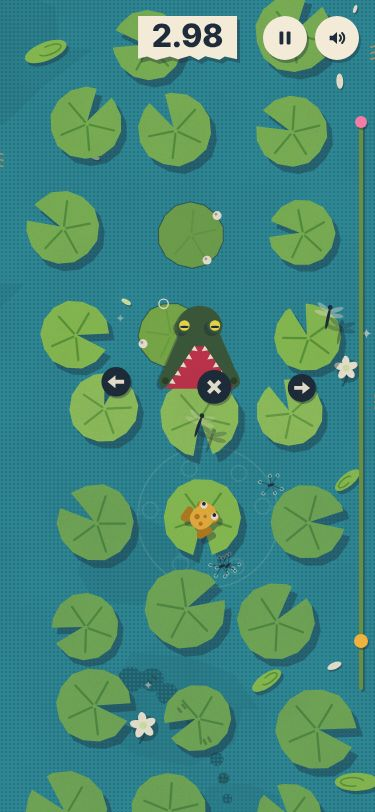
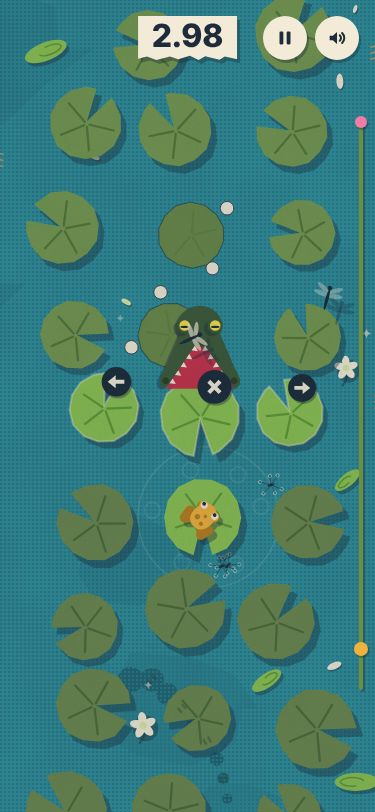
M-0002: WO-003 fix r1 (polish findings)
Claude-Session: https://claude.ai/code/session_01WqXox3iJk842Krqfm64NXK

diff --git a/projects/frog-chase/src/render/renderer.ts b/projects/frog-chase/src/render/renderer.ts
@@ -86,6 +86,11 @@ declare global {
 /** Hinge → snout tip of the head, wu (draw.ts SNOUT plus the rounded tip). */
 const SNOUT_TIP = 10.5;
 const lerpAngle = (a: number, b: number, t: number): number => a + Math.atan2(Math.sin(b - a), Math.cos(b - a)) * t;
+/** Is a pad one of the current choices? (Module-level: no per-frame closure.) */
+function isChoiceOf(sim: SimState, id: number): boolean {
+  for (let i = 0; i < sim.choices.length; i++) if (sim.choices[i]!.padId === id) return true;
+  return false;
+}
 const DASH = [3, 3];
 const NO_DASH: number[] = [];
 
@@ -246,17 +251,28 @@ export function createRenderer(canvas: HTMLCanvasElement): Renderer {
       return true;
     },
     clear(p: Vec2): Vec2 {
+      // Neighbouring clearance zones overlap, so push repeatedly; if a point is still trapped between two
+      // choices, lift it north of their layer.
       const sim = simRef!;
+      for (let pass = 0; pass < 4; pass++) {
+        let moved = false;
+        for (let i = 0; i < sim.choices.length; i++) {
+          const pad = sim.river.pads[sim.choices[i]!.padId]!;
+          if (pad.kind === 'bank') continue;
+          const cx = pad.x + padSwayX(pad, at), cy = pad.y;
+          const dx = p.x - cx, dy = p.y - cy;
+          const d = Math.hypot(dx, dy), min = pad.r + 6;
+          if (d >= min) continue;
+          const ux = d > 1e-6 ? dx / d : 0, uy = d > 1e-6 ? dy / d : 1;
+          p.x = cx + ux * min;
+          p.y = cy + uy * min;
+          moved = true;
+        }
+        if (!moved) return p;
+      }
       for (let i = 0; i < sim.choices.length; i++) {
         const pad = sim.river.pads[sim.choices[i]!.padId]!;
-        if (pad.kind === 'bank') continue;
-        const cx = pad.x + padSwayX(pad, at), cy = pad.y;
-        const dx = p.x - cx, dy = p.y - cy;
-        const d = Math.hypot(dx, dy), min = pad.r + 6;
-        if (d >= min) continue;
-        const ux = d > 1e-6 ? dx / d : 0, uy = d > 1e-6 ? dy / d : 1;
-        p.x = cx + ux * min;
-        p.y = cy + uy * min;
+        if (pad.kind !== 'bank') p.y = Math.max(p.y, pad.y + pad.r + 6.5);
       }
       return p;
     },
@@ -437,6 +453,24 @@ export function createRenderer(canvas: HTMLCanvasElement): Renderer {
     if (e.t !== 'nearMiss') {
       if (imp.shakePx > 0) shake.kick(imp.shakePx, imp.shakeMs);
     }
+  }
+
+  /** A landed droplet: a ripple on the water, and the polish-10 audit (hoisted: no per-frame closure). */
+  function onDropletLand(x: number, y: number, size: number): void {
+    ripples.spawn(x, y, size * 0.6, size * 2.6, 0.32, 0.45);
+    if (landPad < 0 || !simRef) return;
+    const lp = simRef.river.pads[landPad]!;
+    probe.droplets++;
+    if (Math.hypot(x - lp.x, y - lp.y) < lp.r * 1.08) probe.dropletsOnPad++;
+  }
+
+  /** Route point i of the win trace: the swayed centre of the landed pad (bank points as stored). */
+  function routePoint(sim: SimState, i: number, out: Vec2): Vec2 {
+    const id = route ? route[i]! : -1;
+    if (id >= 0 && sim.river.pads[id]!.kind !== 'bank') return padPos(id, out);
+    out.x = sim.trail[i]!.x;
+    out.y = sim.trail[i]!.y;
+    return out;
   }
 
   function padAt(sim: SimState, p: Vec2): number {
@@ -733,10 +767,6 @@ export function createRenderer(canvas: HTMLCanvasElement): Renderer {
       // ── Pads (shadows pass, then surfaces).
       const frogLayer = sim.frog.layer;
       const k0 = Math.max(1, Math.floor(bounds.yB / P) - 1), k1 = Math.min(t.layers, Math.ceil(bounds.yT / P) + 1);
-      const isChoice = (id: number) => {
-        for (let i = 0; i < sim.choices.length; i++) if (sim.choices[i]!.padId === id) return true;
-        return false;
-      };
       for (let pass = 0; pass < 2; pass++) {
         for (let k = k0; k <= k1; k++) {
           const layer = sim.river.layers[k]!;
@@ -748,7 +778,7 @@ export function createRenderer(canvas: HTMLCanvasElement): Renderer {
               drawPadShadow(ctx, p, shapeOf(p), look);
               continue;
             }
-            const lit = isChoice(p.id) || rt_.state === 'reachable' || rt_.state === 'flanked';
+            const lit = isChoiceOf(sim, p.id) || rt_.state === 'reachable' || rt_.state === 'flanked';
             const target = lit || p.id === sim.frog.padId || p.id === sim.frog.targetId ? 0 : k > frogLayer ? DIM_AHEAD : DIM_BEHIND;
             const was = dimOf[p.id]!;
             const step = (dt / 120) * DIM_AHEAD;
@@ -772,7 +802,7 @@ export function createRenderer(canvas: HTMLCanvasElement): Renderer {
       }
       // The north bank answers as one big target when it is the next hop.
       const north = sim.river.layers[t.layers + 1]?.[0];
-      if (north && isChoice(north.id)) {
+      if (north && isChoiceOf(sim, north.id)) {
         dX[north.id] = sx(view, 50);
         dY[north.id] = sy(view, north.y);
         dR[north.id] = 26 * view.k;
@@ -850,7 +880,7 @@ export function createRenderer(canvas: HTMLCanvasElement): Renderer {
       let chipCount = 0;
       for (let i = 0; i < 3; i++) {
         const id = lastChips[i]!;
-        if (id >= 0 && !isChoice(id)) chipBorn[id] = -1;
+        if (id >= 0 && !isChoiceOf(sim, id)) chipBorn[id] = -1;
       }
       for (let i = 0; i < 3; i++) lastChips[i] = sim.choices[i]?.padId ?? -1;
       let stagger = 0;
@@ -891,7 +921,7 @@ export function createRenderer(canvas: HTMLCanvasElement): Renderer {
         }
       }
       // A flanked pad keeps its ✕ while the frog is in the air (choices are empty then): the jaws are never the only warning.
-      if (flankPad >= 0 && sim.padStates[flankPad]!.state === 'flanked' && !isChoice(flankPad)) {
+      if (flankPad >= 0 && sim.padStates[flankPad]!.state === 'flanked' && !isChoiceOf(sim, flankPad)) {
         const p = sim.river.pads[flankPad]!;
         padPos(flankPad, tmp);
         drawChip(ctx, tmp.x + 0.36 * p.r, tmp.y + 0.74 * p.r, 0.42 * p.r, 'X', false, 1, px, chipPx);
@@ -922,14 +952,7 @@ export function createRenderer(canvas: HTMLCanvasElement): Renderer {
       }
 
       // ── Particles.
-      particles.step(dts, (x, y, size) => {
-        ripples.spawn(x, y, size * 0.6, size * 2.6, 0.32, 0.45);
-        if (landPad >= 0) {
-          const lp = sim.river.pads[landPad]!;
-          probe.droplets++;
-          if (Math.hypot(x - lp.x, y - lp.y) < lp.r * 1.08) probe.dropletsOnPad++;
-        }
-      });
+      particles.step(dts, onDropletLand);
       for (let i = 0; i < particles.cap; i++) {
         if (particles.life[i]! <= 0) continue;
         const kind = particles.kind[i]!;
@@ -986,22 +1009,15 @@ export function createRenderer(canvas: HTMLCanvasElement): Renderer {
           ctx.setLineDash(DASH);
           ctx.beginPath();
           const n = sim.trail.length;
-          const at_ = (i: number, out: Vec2) => {
-            const id = route![i]!;
-            if (id >= 0 && sim.river.pads[id]!.kind !== 'bank') return padPos(id, out);
-            out.x = sim.trail[i]!.x;
-            out.y = sim.trail[i]!.y;
-            return out;
-          };
-          at_(n - 1, tmp);
+          routePoint(sim, n - 1, tmp);
           ctx.moveTo(tmp.x, tmp.y);
           for (let i = n - 2; i >= 0; i--) {
-            at_(i, tmp);
+            routePoint(sim, i, tmp);
             if (arc[i]! >= cutAt) {
               ctx.lineTo(tmp.x, tmp.y);
               continue;
             }
-            at_(i + 1, tmp2);
+            routePoint(sim, i + 1, tmp2);
             const seg = arc[i + 1]! - arc[i]!;
             const f = seg > 0 ? (arc[i + 1]! - cutAt) / seg : 1;
             ctx.lineTo(lerp(tmp2.x, tmp.x, f), lerp(tmp2.y, tmp.y, f));
@@ -1012,7 +1028,7 @@ export function createRenderer(canvas: HTMLCanvasElement): Renderer {
           ctx.beginPath();
           for (let i = 0; i < n; i++) {
             if (arc[i]! < cutAt) continue;
-            at_(i, tmp);
+            routePoint(sim, i, tmp);
             ctx.moveTo(tmp.x + 1.1, tmp.y);
             ctx.arc(tmp.x, tmp.y, 1.1, 0, TAU);
           }
@@ -1032,7 +1048,7 @@ export function createRenderer(canvas: HTMLCanvasElement): Renderer {
         choiceIds[nc] = cp.id;
         choiceR[nc++] = cp.r;
       }
-      if (nc && life.minChoiceGap(lifeWorld, choiceIds, choiceR, nc) < 2) { probe.flyOverChoice++; (probe as any).__dbg = JSON.stringify({ f: (life as any).flies.map((q: any) => [q.mode, q.x.toFixed(1), q.y.toFixed(1), q.pad]), c: choiceIds.slice(0, nc), hs: resized }); }
+      if (nc && life.minChoiceGap(lifeWorld, choiceIds, choiceR, nc) < 2) probe.flyOverChoice++;
 
       // ── Print grain and the danger vignette (screen space).
       setScreen();

diff --git a/bureau/missions/M-0002-frog-chase/log.md b/bureau/missions/M-0002-frog-chase/log.md
@@ -47,3 +47,15 @@ Chronological record kept by `bureau`. Append with `python3 bureau/bin/bureau lo
 - `2026-11-21T03:53:30Z` **engineer** — F-005 resolved: shell-pause.e2e.mjs now does check(count === 1) on '#ui [data-test="pause"]', clicks it, asserts paused and frozen, then asserts the next ↑ adds exactly 1 hop event (focus released). The else/note branch is gone. Mutation: a scratch copy with the selector renamed gives 'FAIL pause button present (... found 0)', exit 1. The real file passes 3/3 runs.
 - `2026-11-21T03:53:30Z` **engineer** — F-006 resolved: WO-004 part: shell.ts reuses one mutable ViewState refilled per frame (render/ui only copy fields out; grep shows no retained view). input.ts mutates one PadMemory per gamepad slot and uses shared frozen-shape HOP intents, so nothing is allocated per poll. Unit test 'frame path (F-006)' asserts the renderer gets the identical ViewState object each frame. The two renderer closures (renderer.ts:690, :862) are WO-003's paths and are left to them. PORT=4393 npm run verify: all shell-*, boot and sim e2e PASS.
 - `2026-11-21T03:54:07Z` **ceo** — WO-004 fix r1 done (F-003, F-005, F-006 shell part). shell-audio 83->19 s, shell-save 36->8 s. Lesson for retro: parallel verifies need distinct PORTs.
+- `2026-11-21T04:07:14Z` **engineer** — F-007 resolved: Vellum sheet removed; wordmark straight on the pond (ink, 3 px paper offset, 38% ink shadow), pads never tinted — bureau/missions/M-0002-frog-chase/evidence/WO-003/look-01-title-desktop.jpg, bureau/missions/M-0002-frog-chase/evidence/WO-003/r1/look-01-title-mobile.jpg; look-shots '1 title: wordmark on the pond (no sheet tinting pads), clear of the lit pads'
+- `2026-11-21T04:07:14Z` **engineer** — F-008 resolved: Non-reachable pads dim to ~80% value / −20% saturation (behind: 72%/−30%), eased over 120 ms; reachable keep full value + 2 px paper rim at 40% (color.ts dimRamp, renderer dimOf) — bureau/missions/M-0002-frog-chase/evidence/WO-003/r1/look-04-layer6-mobile.jpg, grayscale still separates: look-grayscale shadow 29–31 vs −1, crescent 0.26 vs 0 (bureau/missions/M-0002-frog-chase/evidence/WO-003/r1/look-04-layer6-gray-mobile.jpg)
+- `2026-11-21T04:07:14Z` **engineer** — F-009 resolved: Rest pads must be idle lilies r+9 wu clear of every choice; flies take off when a pad turns reachable; wander and approach flights pushed r+6 wu clear (iterated for overlapping zones) — look-feel 'F-009: no frame with a dragonfly over a reachable pad (0)' over full crossings at 414 and 1920 wide
+- `2026-11-21T04:07:14Z` **engineer** — F-010 resolved: Droplets spawn at 1.0–1.1r, land at 1.25–1.6r, fade over the last 60 ms — look-feel 'polish 10 / F-010: 240 landing droplets, 0 on a pad'; bureau/missions/M-0002-frog-chase/evidence/WO-003/r1/m-droplets-110ms.jpg
+- `2026-11-21T04:07:14Z` **engineer** — F-011 resolved: Vignette 0.45τ (floor 0.10 past τ 0.3), inner stop 0.3, plus a 6 px solid jaw band on the lub (≤2.3 Hz) — danger.ts, cues.test.ts; look-shots '6 τ 0.61 … vignette' at 375; bureau/missions/M-0002-frog-chase/evidence/WO-003/r1/look-06-tau-mobile.jpg
+- `2026-11-21T04:07:14Z` **engineer** — F-012 resolved: ≥1024 px: win zoom fits the whole route under the HUD (camera.test asserts top at 112 px, start at h−24), card docked on the right bank, no veil on wins, bloom petals 2.5 wu / 0.9 s at constant screen size — bureau/missions/M-0002-frog-chase/evidence/WO-003/look-11-win-desktop.jpg
+- `2026-11-21T04:07:14Z` **engineer** — F-013 resolved: Clack aims the snout TIP 0.3P behind the frog's shadow centre along the hop axis, head turned along the hop — look-shots '8 near-miss: snout tip 11.7 wu behind the frog's shadow (≥ 0.3P = 7.8)'; bureau/missions/M-0002-frog-chase/evidence/WO-003/r1/m-nearmiss.jpg
+- `2026-11-21T04:07:14Z` **engineer** — F-014 resolved: Bubbles r 1.8 wu with a 1 px ink rim, rising 4 wu; soggy diagram gains a third callout 'no notch' — bureau/missions/M-0002-frog-chase/evidence/WO-003/r1/m-soggy-card.jpg, bureau/missions/M-0002-frog-chase/evidence/WO-003/r1/look-04-layer6-mobile.jpg; format.test callouts
+- `2026-11-21T04:07:14Z` **engineer** — F-015 resolved: Hover (pointer: fine): lift 1 px, shadow 3 px over 90 ms on round and tab buttons; .ly-down press class on pointerdown so short presses show — bureau/missions/M-0002-frog-chase/evidence/WO-003/r1/d-hud-hover.jpg
+- `2026-11-21T04:07:14Z` **engineer** — F-016 resolved: Curl hint now 'Curled edge. Rocks. Sneaky.' matching the callouts — format.test.ts 'One vocabulary on the curl card'
+- `2026-11-21T04:07:14Z` **engineer** — F-017 resolved: Finish log moved to x 14 wu (left of the tab and right-hand buttons); HUD best hidden on a win — bureau/missions/M-0002-frog-chase/evidence/WO-003/r1/d-k34-log.jpg, bureau/missions/M-0002-frog-chase/evidence/WO-003/look-11-win-desktop.jpg
+- `2026-11-21T04:07:14Z` **engineer** — F-018 resolved: Open legs 0.7× reach, 2.5 wu stroke, round webbed feet (r ≤1 wu) — bureau/missions/M-0002-frog-chase/evidence/WO-003/r1/look-02-apex-mobile.jpg

diff --git a/bureau/missions/M-0002-frog-chase/reports/WO-003.md b/bureau/missions/M-0002-frog-chase/reports/WO-003.md
@@ -4,7 +4,7 @@ STATUS: DONE
 Discipline: rendering, game feel, UI/HUD · Mission: M-0002 · Round: build
 
 ## Built
-A Canvas 2D cut-paper renderer (pads, tells, chips, frog, gator, banks, reeds, finish log, ambient life, halftone and grain), with pooled juice driven by `VISUAL_CUES`. A DOM overlay: timer tab, best, progress reed, pause/mute, title on vellum, three result cards (live tell diagram), NEW BEST stamp, pause menu with tell legend, restart wipe. Tests read the probe `canvas.__lilyRender`.
+Canvas 2D cut-paper world with pooled juice driven by `VISUAL_CUES`; DOM HUD, title, result cards with live tell diagram, stamp, pause menu, wipe. Tests read the probe `canvas.__lilyRender`.
 
 ## Done-when criteria
 | # | Criterion | ✓/✗ | Evidence |
@@ -19,15 +19,27 @@ A Canvas 2D cut-paper renderer (pads, tells, chips, frog, gator, banks, reeds, f
 
 Polish tested: 1, 3–7, 9, 15, 16, 20, 24. Code and screenshot only: 8, 10, 12, 17, 18, 21, 22, 23.
 
-CEO requests: `pickPad` returns the nearest centre (`look-feel`: "7 overlapping hit zones, 0 wrong"). The vignette is `vignetteAlpha(τ, heartbeatPhase(sim))`: it peaks at the wrap and is 0 on a fresh run (`cues.test.ts`). **Pause button selector: `#ui [data-test="pause"]`** (mute: `[data-test="mute"]`).
+CEO: `pickPad` picks the nearest centre (look-feel); vignette peaks at the heartbeat wrap (`cues.test.ts`). **Pause selector: `#ui [data-test="pause"]`**.
 
-Evidence copies: `evidence/WO-003/` (title desktop, flank mobile, curl card mobile, win desktop).
+Best 4: `evidence/WO-003/`.
 
 ## Verify
 `npm run verify` → "verify: all steps passed" (16/16; bundle 38.0 KB gzip). Final edits re-proven: tsc, 113/113 unit, all four look suites.
 
 ## Gaps and requests
-- **Raster cost is hidden from the budget metric.** Headless Chromium defers canvas raster, so `lastFrameMs` misses it. With a flush forced every frame: desktop ~8–10 ms p50, mobile ~3.5 ms. Down from 13.3 ms after raster optimizations. The tier ignores samples over 100 ms as stalls. Suggest the CEO adopt flushed cost as a second metric.
-- Title: the wordmark sits on a translucent torn vellum sheet over the far pond, my reading of "doesn't overlap pads". Lit pads never sit under it (asserted).
-- Card timing uses the shared presentation clock (`src/render/clock.ts`), not `view.resultAgeMs`, so the canvas and the cards share one clock under the manual clock.
+- `lastFrameMs` misses deferred raster; flushed per frame: desktop ~8–10 ms, mobile ~3.5 ms. Suggest a flushed-cost metric.
+- Card timing uses the shared presentation clock (`render/clock.ts`), not `resultAgeMs`.
 - Files outside OWNS: none.
+
+## Fix r1
+Evidence: `evidence/WO-003/r1/`. `PORT=4395 npm run verify` → all 16 steps passed (look-shots 36, look-feel 22).
+- F-007: vellum removed; wordmark on the pond (§7.1).
+- F-008: other pads dim to ~80% value (eased 120 ms); reachable keep full value + paper rim. Grayscale test still separates.
+- F-009: 0 dragonfly-over-chip frames over full crossings.
+- F-010: 240 droplets, 0 on a pad.
+- F-011: 0.45τ vignette + lub band.
+- F-012: whole route fits on wide screens, card docked right, no veil.
+- F-013: snout tip 11.7 wu behind the shadow.
+- F-014: bigger bubbles; "no notch" callout.
+- F-015–F-018 fixed (hover, copy, log moved, legs).
+- CEO flank: jaws and now also ✕ stay drawn on every squash/air frame while flanked (15/15). F-006 closures hoisted.
